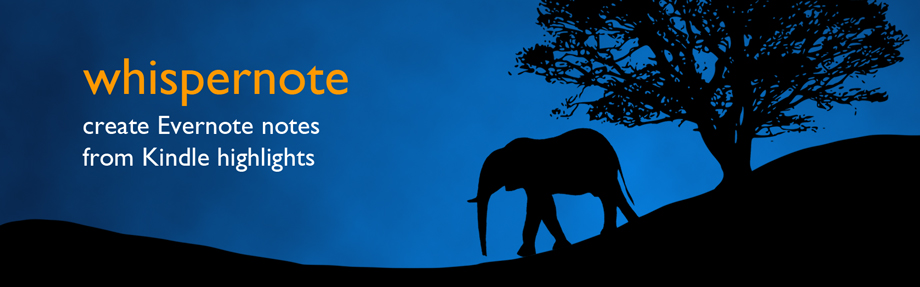
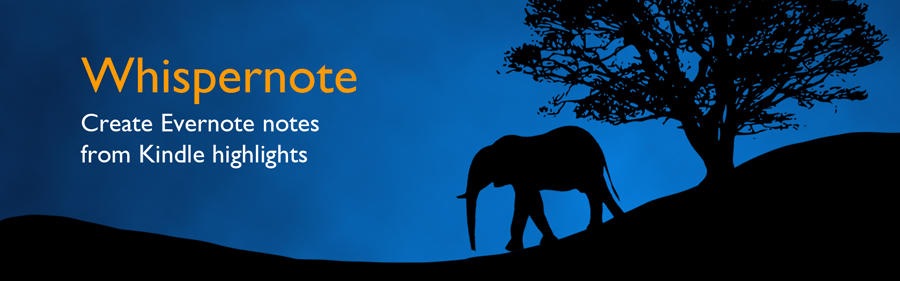
Capitalized title and tagline.

diff --git a/assets/css/bootstrap.less.css b/assets/css/bootstrap.less.css
@@ -1187,9 +1187,9 @@ footer{border-top:1px dotted #999999;margin-top:36px;padding:2px 4px;}
 .subhead h1{font-size:60px;}
 .subhead p{margin-bottom:20px;}
 .subhead .navbar{display:none;}
-.jumbotron{text-align:left;background-color:#000000;background-repeat:repeat-x;background-image:-moz-linear-gradient(135deg, #049cdb, #000000);background-image:-webkit-linear-gradient(135deg, #049cdb, #000000);background-image:-o-linear-gradient(135deg, #049cdb, #000000);background-image:linear-gradient(135deg, #049cdb, #000000);background-image:url("../img/whispernote-banner.jpg");background-repeat:no-repeat;background-position:center center;margin-bottom:20px;}.jumbotron .masthead h1{font-weight:normal;font-family:'Lato',sans-serif,"Helvetica Neue",Helvetica,Arial,sans-serif;font-size:60px;text-transform:lowercase;}
-.jumbotron .masthead p{font-family:'Lato',sans-serif,"Helvetica Neue",Helvetica,Arial,sans-serif;font-size:30px;text-transform:lowercase;}
-.jumbotron .masthead .btn-primary{color:#ffffff;text-shadow:0 -1px 0 rgba(0, 0, 0, 0.25);background-color:#faa732;background-image:-moz-linear-gradient(top, #fbb450, #f89406);background-image:-webkit-gradient(linear, 0 0, 0 100%, from(#fbb450), to(#f89406));background-image:-webkit-linear-gradient(top, #fbb450, #f89406);background-image:-o-linear-gradient(top, #fbb450, #f89406);background-image:linear-gradient(to bottom, #fbb450, #f89406);background-repeat:repeat-x;filter:progid:DXImageTransform.Microsoft.gradient(startColorstr='#fffbb450', endColorstr='#fff89406', GradientType=0);border-color:#f89406 #f89406 #ad6704;border-color:rgba(0, 0, 0, 0.1) rgba(0, 0, 0, 0.1) rgba(0, 0, 0, 0.25);*background-color:#f89406;filter:progid:DXImageTransform.Microsoft.gradient(enabled = false);text-transform:capitalize;}.jumbotron .masthead .btn-primary:hover,.jumbotron .masthead .btn-primary:focus,.jumbotron .masthead .btn-primary:active,.jumbotron .masthead .btn-primary.active,.jumbotron .masthead .btn-primary.disabled,.jumbotron .masthead .btn-primary[disabled]{color:#ffffff;background-color:#f89406;*background-color:#df8505;}
+.jumbotron{text-align:left;background-color:#000000;background-repeat:repeat-x;background-image:-moz-linear-gradient(135deg, #049cdb, #000000);background-image:-webkit-linear-gradient(135deg, #049cdb, #000000);background-image:-o-linear-gradient(135deg, #049cdb, #000000);background-image:linear-gradient(135deg, #049cdb, #000000);background-image:url("../img/whispernote-banner.jpg");background-repeat:no-repeat;background-position:center center;margin-bottom:20px;}.jumbotron .masthead h1{font-weight:normal;font-family:'Lato',sans-serif,"Helvetica Neue",Helvetica,Arial,sans-serif;font-size:60px;}
+.jumbotron .masthead p{font-family:'Lato',sans-serif,"Helvetica Neue",Helvetica,Arial,sans-serif;font-size:30px;}
+.jumbotron .masthead .btn-primary{color:#ffffff;text-shadow:0 -1px 0 rgba(0, 0, 0, 0.25);background-color:#faa732;background-image:-moz-linear-gradient(top, #fbb450, #f89406);background-image:-webkit-gradient(linear, 0 0, 0 100%, from(#fbb450), to(#f89406));background-image:-webkit-linear-gradient(top, #fbb450, #f89406);background-image:-o-linear-gradient(top, #fbb450, #f89406);background-image:linear-gradient(to bottom, #fbb450, #f89406);background-repeat:repeat-x;filter:progid:DXImageTransform.Microsoft.gradient(startColorstr='#fffbb450', endColorstr='#fff89406', GradientType=0);border-color:#f89406 #f89406 #ad6704;border-color:rgba(0, 0, 0, 0.1) rgba(0, 0, 0, 0.1) rgba(0, 0, 0, 0.25);*background-color:#f89406;filter:progid:DXImageTransform.Microsoft.gradient(enabled = false);}.jumbotron .masthead .btn-primary:hover,.jumbotron .masthead .btn-primary:focus,.jumbotron .masthead .btn-primary:active,.jumbotron .masthead .btn-primary.active,.jumbotron .masthead .btn-primary.disabled,.jumbotron .masthead .btn-primary[disabled]{color:#ffffff;background-color:#f89406;*background-color:#df8505;}
 .jumbotron .masthead .btn-primary:active,.jumbotron .masthead .btn-primary.active{background-color:#c67605 \9;}
 .jumbotron .masthead .btn-primary:hover,.jumbotron .masthead .btn-primary:focus,.jumbotron .masthead .btn-primary:active,.jumbotron .masthead .btn-primary.active,.jumbotron .masthead .btn-primary.disabled,.jumbotron .masthead .btn-primary[disabled]{color:#ffffff;background-color:#f89406;*background-color:#df8505;}
 .jumbotron .masthead .btn-primary:active,.jumbotron .masthead .btn-primary.active{background-color:#c67605 \9;}

diff --git a/assets/css/bootstrap.less b/assets/css/bootstrap.less
@@ -137,17 +137,14 @@ footer {
       font-weight: normal;
       font-family: @baseFontFamily;
       font-size: 60px;
-      text-transform: lowercase;
     }
     p {
       font-family: @baseFontFamily;
       font-size: 30px;
-      text-transform: lowercase;
     }
   // Overwrite to be orange.
     .btn-primary {
       .buttonBackground(@btnWarningBackground, @btnWarningBackgroundHighlight);
-      text-transform: capitalize;
     }
   }
 }
